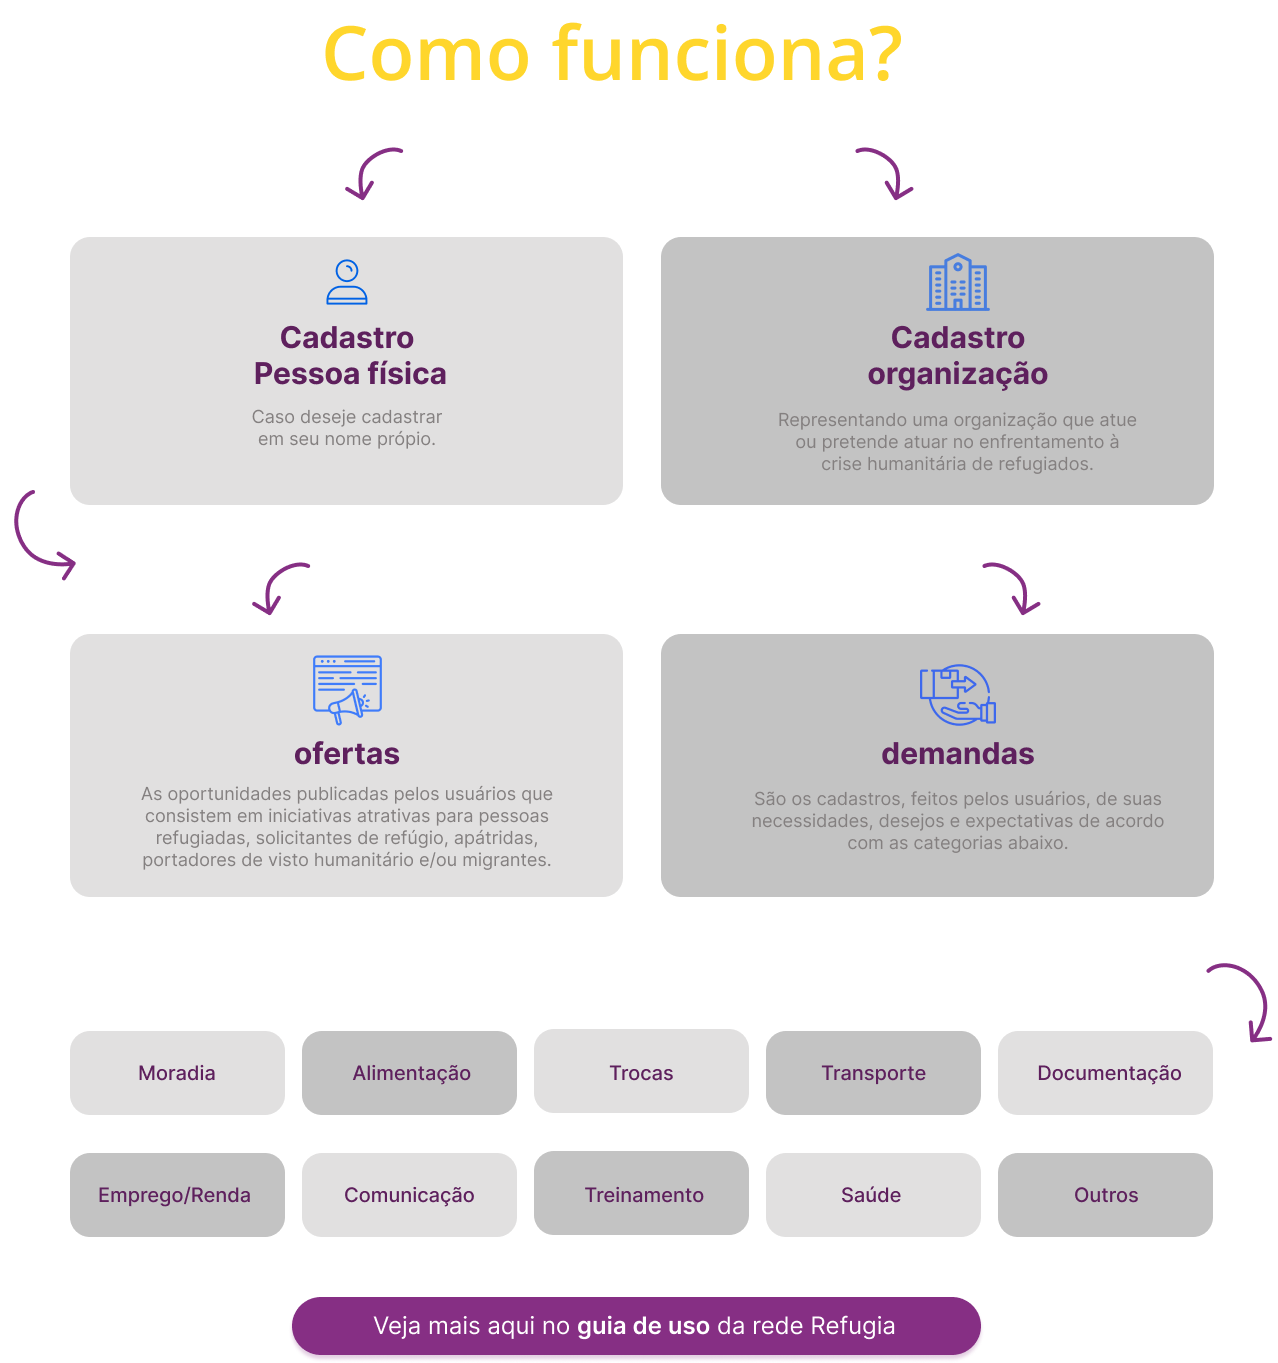
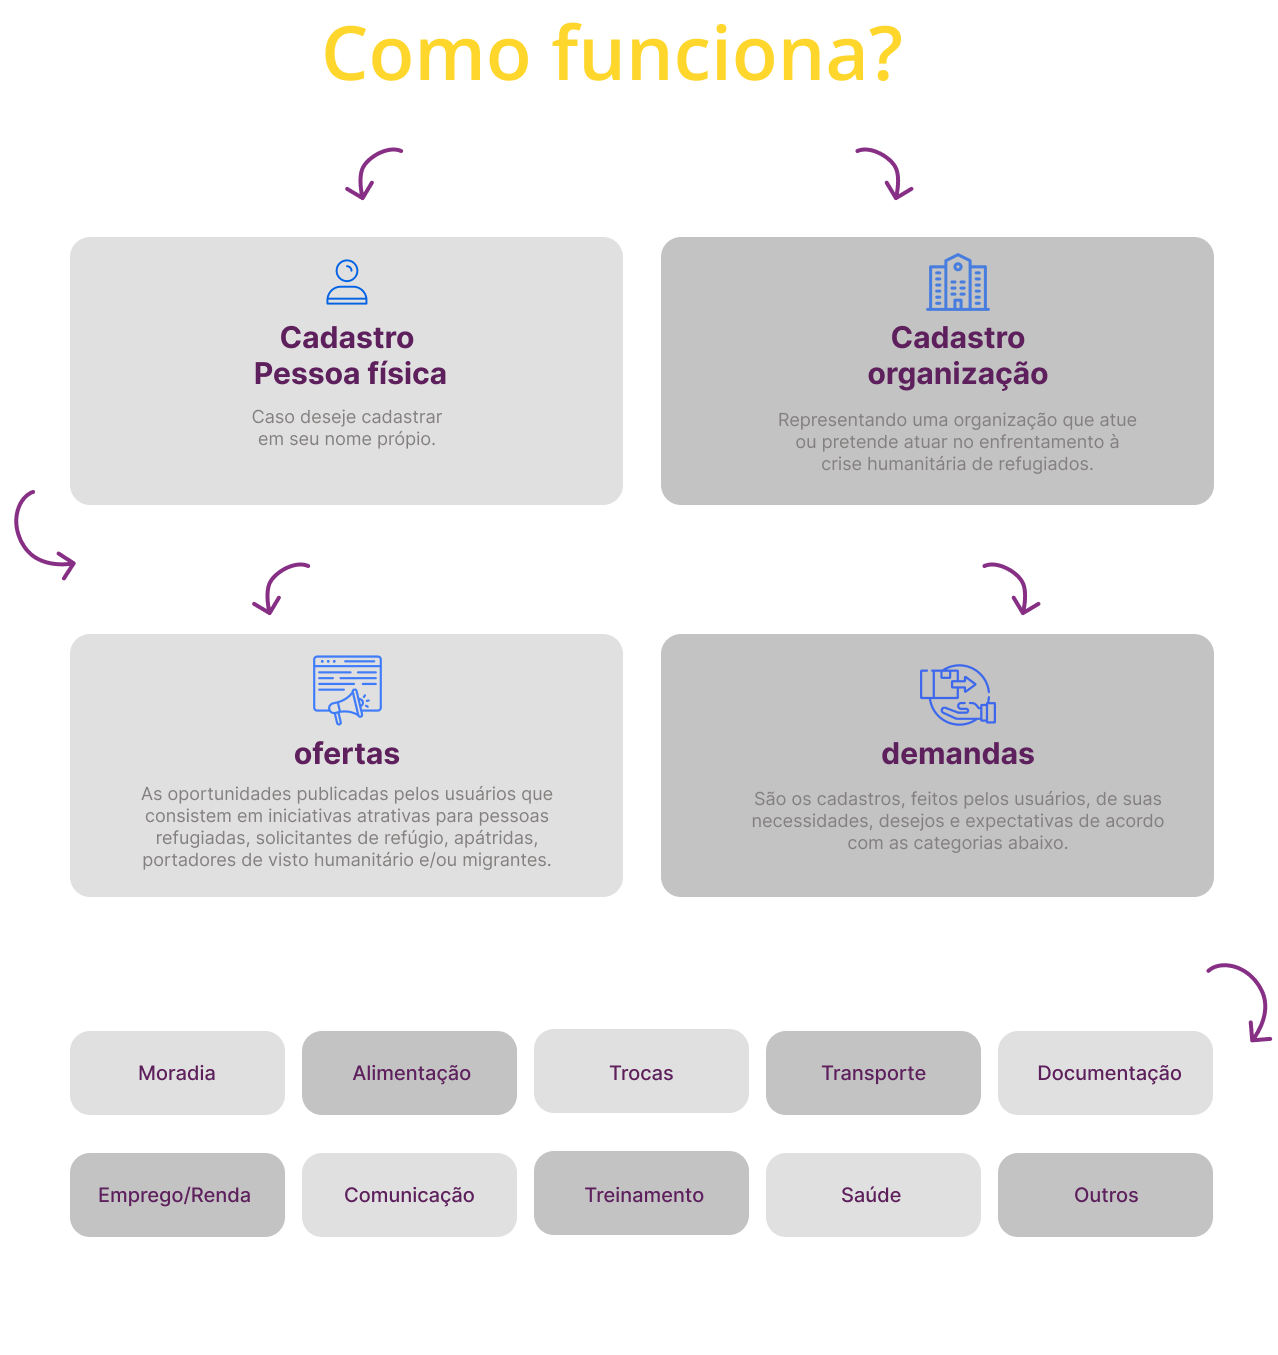
it changes the how it works image

diff --git a/src/screens/LoginScreen/HowItWorksRegion.js b/src/screens/LoginScreen/HowItWorksRegion.js
@@ -7,7 +7,7 @@ import localization from "../../utils/localization";
 import theme from "../../utils/theme";
 
 const window = Dimensions.get("window");
-const imageRatio = 1278 / 1363;
+const imageRatio = 1278 / 1355;
 
 const HowItWorksRegion = React.forwardRef(({ navigation }, ref) => {
   const handlePress = () => navigation.navigate("user-type");
